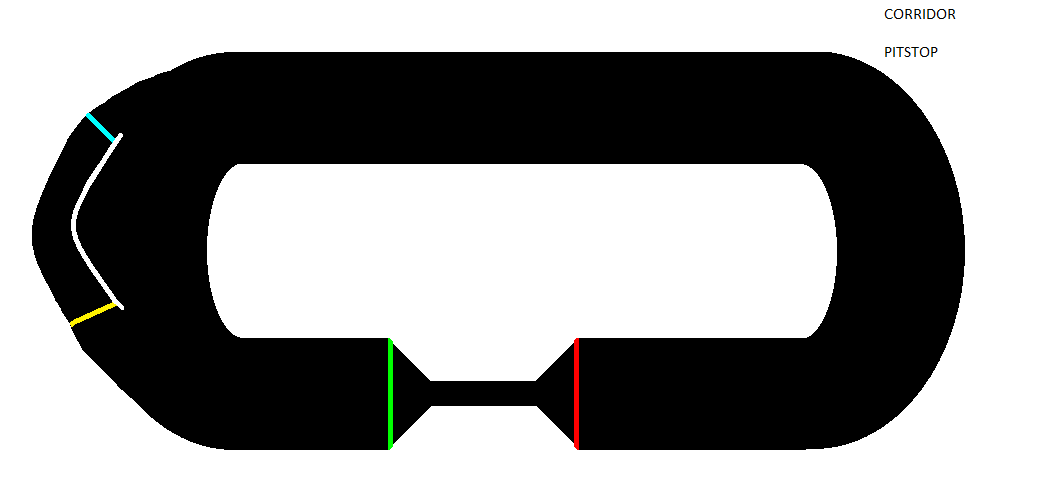
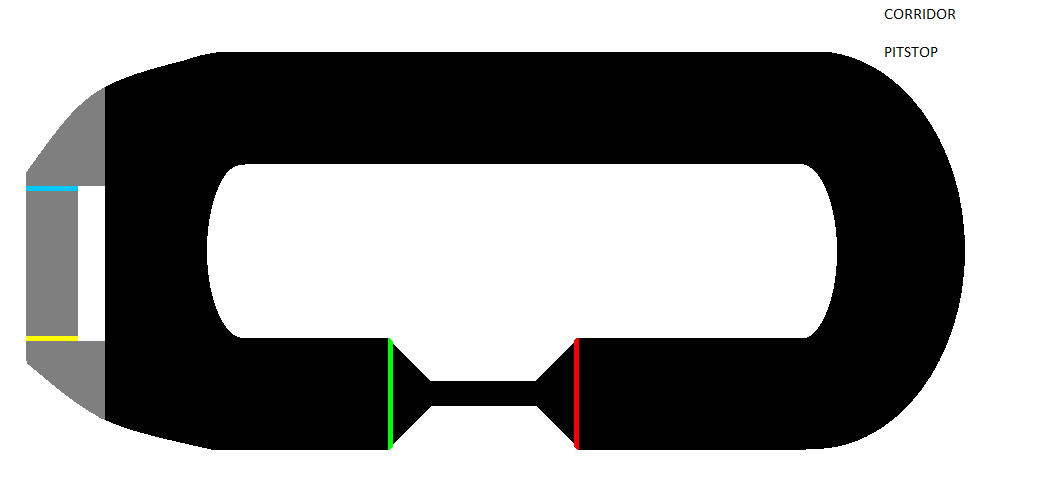
Update track and pitstop mechanics

Changed region(s): [[0.0, 0.1198, 0.2152, 0.8982]]

diff --git a/main.c b/main.c
@@ -4,10 +4,11 @@
 #include <time.h>
 
 #define PLAYER_SQUARE_SIZE 20
-#define PLAYER_SPEED 5
-#define PLAYER_SPEED_NITRO 8
+#define PLAYER_SPEED 3
+#define PLAYER_SPEED_LOADING_NITRO 1
+#define PLAYER_SPEED_NITRO 6
 
-#define NITRO_LAST_TIME 3
+#define NITRO_LAST_TIME 4
 
 #define WINDOW_WIDTH 1400
 #define WINDOW_HEIGHT 700
@@ -33,7 +34,7 @@ const Color DONT_ENTER_COLOR = {255, 255, 255}; // white
 int IS_CORRIDOR_LOCKED = 0;
 int IS_PITSTOP_LOCKED = 0;
 
-time_t speed_boost_start = 0;
+time_t speed_increase_start = 0;
 
 SDL_Texture* loadTexture(const char* filename, SDL_Renderer* renderer) {
     SDL_Surface* surface = IMG_Load(filename);
@@ -148,15 +149,8 @@ bool CanMove(SDL_Surface *surface, int x, int y, int direction) {
 void UpdateSquarePosition(int *x, int *y, const bool keys[], SDL_Surface *trackSurface) {
     static int speed = PLAYER_SPEED;
     int newX = *x, newY = *y;
-    
-    // Check whether the speed has returned to normal after the slow down
-    if (speed_boost_start != 0 && time(NULL) - speed_boost_start >= 2) {
-        speed = PLAYER_SPEED;
-        speed_boost_start = 0;
-    }
 
     // Check whether the speed increase has ended
-    static time_t speed_increase_start = 0;
     if (speed_increase_start != 0 && time(NULL) - speed_increase_start >= NITRO_LAST_TIME) {
         speed = PLAYER_SPEED;
         speed_increase_start = 0;
@@ -179,11 +173,13 @@ void UpdateSquarePosition(int *x, int *y, const bool keys[], SDL_Surface *trackS
         
         if (IsColor(colorTop, trackSurface->format, PITSTOP_IN_COLOR)){
             IS_PITSTOP_LOCKED = 1;
-            speed = PLAYER_SPEED_NITRO;
-            speed_boost_start = time(NULL);
+            speed = PLAYER_SPEED_LOADING_NITRO;
             }
-        else if (IsColor(colorTop, trackSurface->format, PITSTOP_OUT_COLOR))
+        else if (IsColor(colorTop, trackSurface->format, PITSTOP_OUT_COLOR)){
             IS_PITSTOP_LOCKED = 0;
+            speed = PLAYER_SPEED_NITRO;
+            speed_increase_start = time(NULL);
+            }
     }
 
     if (CanMove(trackSurface, newX, newY, 1) && CanMove(trackSurface, newX, newY, 8) &&
